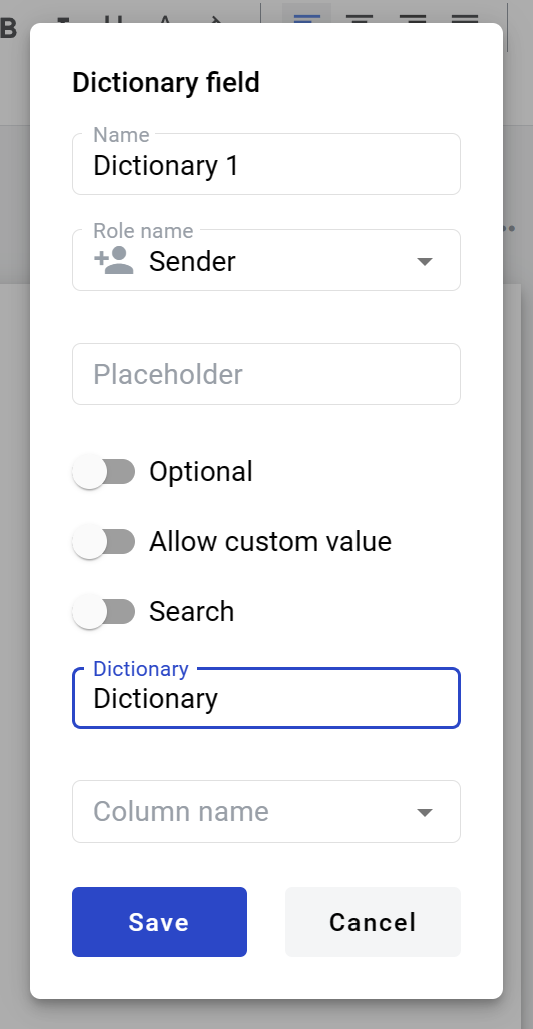
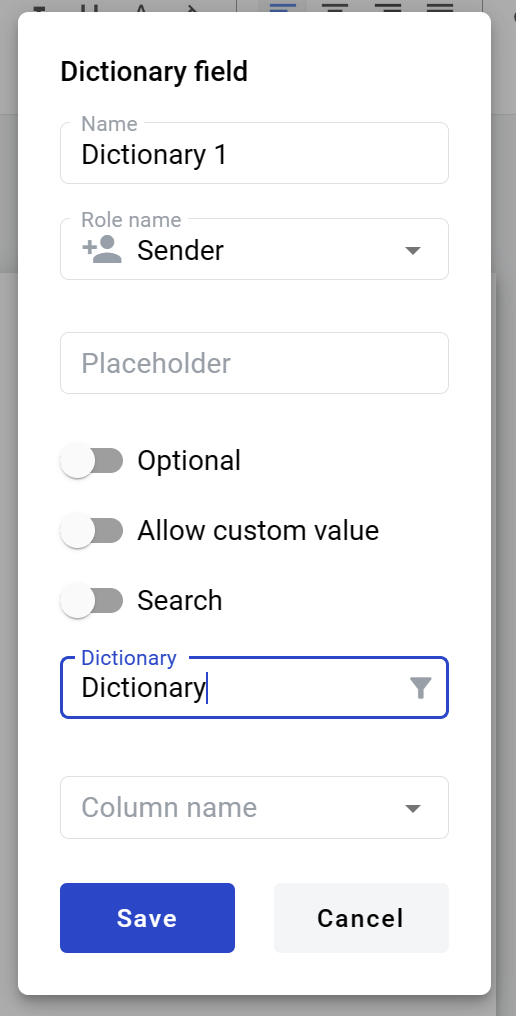
Dictionary filtering (#167)

diff --git a/docs/source/pages/howToWorkWithPlatform/mainApplication/dictionary/dictionary.rst b/docs/source/pages/howToWorkWithPlatform/mainApplication/dictionary/dictionary.rst
@@ -2,148 +2,89 @@
 Dictionary
 ==========
 
-.. toctree::
-
-Dictionary - is a list of records in a systematic form, e.g. list of employee(Name, Surname, Age, Address).
+Dictionary - is a table of records, e.g. list of employees (Name, Surname, Age, Address).
 
 Creating a dictionary
 =====================
 
-1. Navigate to https://staging.whitedoc.space/dictionary
-2. Click to create dictionary button
+.. note:: This functionality is blocked if mailbox has no permission. Dictionary editing is available only to mailbox which is an owner of this dictionary.
 
-.. image:: pic_dictionary/create_dictionary.png
+**Permissions:**
+*Dictionary manage* - allows to create new dictionaries, add columns, change columns order, edit columns, change name, description and access level of dictionaries.
+*Dictionary delete* - allow to delete dictionaries.
+*Dictionary row manage* - allow to create records and change values in records.
+*Dictionary row delete* - allow to delete records.
+
+1. Navigate to https://platform_address_here/dictionary
+2. Click on create dictionary button
+
+.. image:: pic_dictionary/newDictionary.png
    :width: 600
    :align: center
 
-Editing a dictionary
-====================
+3. New dictionary - default name of a dictionary. You can change it as needed
+4. Description - default description of a dictionary. You can change it as needed
 
-Dictionary editing is available only to mailbox that are owner of this dictionary. When user doesn't have permissions to do some operation - functionality is blocked.
+.. note:: Dictionary name max length is 128 characters. Dictionary description max length is 256 characters.
 
-**Permissions**:
+5. Allow filtered access - this attribute specifies if access to this dictionary will be filtered or full. If disabled - all records from a column will be available for choise in the envelope with dictionary field. If enabled - only values form matching rows will be returned. Values from other columns are used for row matching
+6. Access level (mailbox by default) - specifies which mailboxes will have access to the dictionary
 
-**Dictionary manage** - allow to create new dictionary, add column, change column order, edit columns, change name, description, access level of dictionary.
-**Dictionary delete** - allow to delete dictionary.
-**Dictionary row manage** - allow to create records and change value in records.
-**Dictionary row delete** - allow to delete records.
+**Mailbox** - dictionary is visible to current mailbox only. In envelopes with this dictionary field records from this dictionary will be available to current mailbox only. Roles with other mailboxes will not be able to select data from this dictionary field.
+**Account** - dictionary is visible to all mailboxes in this account. In envelopes with this dictionary field records from this dictionary will be available to mailboxes in current account. Roles with mailboxes from other accounts will not be able to select data from this dictionary field.
+**Public** - dictionary is visible to all mailboxes. In envelopes with this dictionary field records from this dictionary will be available to any mailbox. Roles with any mailbox will be able to select data from this dictionary field.
 
-Add column
-==========
+7. Click on Add row button to add new row
 
-1. Add column to dictionary
-
-.. image:: pic_dictionary/fill_dictionary_3.png
+.. image:: pic_dictionary/dictionary.png
    :width: 600
    :align: center
 
-2. Enter a column name. Columns can have the same names. Maximum length of the column name is 64 characters
+8. You can select rows with a chechmark. If any rows are selected, Delete rows button will appear which allow you to remove rows
+9. Click on Add column button to add new column
+10. Enter a column name (can be not unique). Maximum length of the column name is 64 characters
 
-.. image:: pic_dictionary/fill_dictionary_4.png
+.. image:: pic_dictionary/columnModal.png
    :width: 600
    :align: center
 
-.. image:: pic_dictionary/fill_dictionary_5.png
+11. Hover over column header to see column edition options (filter, rename and delete)
+
+.. image:: pic_dictionary/columnEdit.png
    :width: 600
    :align: center
-
-Edit column
-===========
-
-1. Click to edit icon on column name. Icon appear when user point to column name
-
-.. image:: pic_dictionary/fill_dictionary_6.png
-   :width: 600
-   :align: center
-
-2. Enter new column name
-
-.. image:: pic_dictionary/fill_dictionary_7.png
-   :width: 600
-   :align: center
-
-.. image:: pic_dictionary/fill_dictionary_8.png
-   :width: 600
-   :align: center
-
-Change column order
-===================
-
-1. Drag drag and drop icon and insert column to new position. Icon appear when user point to column name
-2. Drag column to new position
-3. Columns will be displayed in the same order on template on dictionary field
-
-Delete column
-=============
-
-1. Click to delete icon. Icon appear when user point to column name
-2. Confirm that you wanted to delete column
 
 .. note:: `Behaviour of dictionary field after deleting a dictionary column <delete_behaviour.html>`_
 
-Create empty record
-===================
+12. Columns can be rearrenged via drah & drop by this icon (same order will be used if dictionary field creation menu)
 
-Create empty record in dictionary. User can create multiple empty records by clicking to the 'Add row' button. Each click - new record.
-
-.. image:: pic_dictionary/fill_dictionary_1.png
+.. image:: pic_dictionary/columnDrag.png
    :width: 600
    :align: center
 
-.. image:: pic_dictionary/fill_dictionary_2.png
-   :width: 600
-   :align: center
+Editing a record
+================
 
-Edit record
-===========
-
-1. Click to table cell and start entering value to cell. Maximum length of the value is 256 characters
-2. Click checked and value will be applied, also you can click outside and value will be applied too
-3. Click cancel to reject changes and value will not change
-
-Delete record
-=============
-
-1. Set active checkbox or checkboxes in first table column
-2. Click to delete row button
-3. Confirm operation
+1. Click on a table cell and enter a value. Maximum length of the value is 256 characters
+2. Click checkmark to apply new value (also you can click outside of a cell)
+3. Click cancel to revert changes
 
 Filtering records
-==================
+=================
 
 Multiple filters connected by 'OR'. Filter types: Contains, Does not contain, Is equal, Is not equal, Is empty, Is not empty.
 
-1. Click to filter icon. Icon appear when user point to column name
-2. Set filter and enter value
-3. Column name with active filter will have the same color as filter
-4. Filters sort by column order
-5. To cancel filter - click to cancel icon on this filter
+1. Click on a filter icon. Icon appears when hovering over column header
+2. Select filter and enter value
+3. Click on Add button
+4. Column name with active filter will have the same color as filter
+5. Filters are sorted by column order
 
-Access level
-============
+Deleting a dictionary
+=====================
 
-Access levels are mailbox, account, public.
-
-**Mailbox** - dictionary is visible only in this mailbox scope. Envelope with dictionary field - records from this dictionary will be available only to this mailbox. Recipient from other mailbox can't select data from this dictionary.
-**Account** - dictionary is visible to all mailboxes in this account. Envelope with dictionary field - records from this dictionary will be available to all mailboxes in this account. Recipient from other account can't select data from this dictionary.
-**Public** - dictionary is visible to all mailboxes. Envelope with dictionary field - all mailboxes can use records from this dictionary.
-
-1. Click to select with access levels
-2. Chose new access level
-
-Edit dictionary name/description
-================================
-
-1. Click to edit icon
-2. Enter value and click check to apply changes or cancel to reject changes
-
-.. note:: Dictionary name - maximum length is 128 characters. Dictionary description - maximum length is 256 characters.
-
-Delete dictionary
-=================
-
-1. Click to delete icon
-2. Confirm operation
+1. Click on a delete icon on according dictionary on a dictionary list page
+2. Confirm your action
 
 .. note:: `Behaviour of dictionary field after deletion a dictionary <delete_behaviour.html>`_
 

diff --git a/docs/source/pages/howToWorkWithPlatform/mainApplication/templateList/templateManagement/documentManagementOnTemplate/structuredDocument/fields/dictionary/dictionary.rst b/docs/source/pages/howToWorkWithPlatform/mainApplication/templateList/templateManagement/documentManagementOnTemplate/structuredDocument/fields/dictionary/dictionary.rst
@@ -33,6 +33,20 @@ How to add dictionary field to template
 9. Search - this attribute specifies if this field should be eligible for mailbox page search
 10. Dictionary - input for desired dictionary selection. Start typing dictionary name and available dictionaries list will appear
 11. Column name (appears after dictionary is selected) - dropdown selector of a desired column
+12. Filtering (icon in dictionary name field) - opens filtered access options menu. Appears only if filtered access is allowed for selected dictionary
+
+.. image:: pic_dictionary/filteringModal.png
+   :width: 600
+   :align: center
+
+13. Column name - name of a column in a dictionary which will be used for filteringModal
+
+.. note:: Value from this column will be used to find a matching row in a column selected in dictionary during envelope processing flow.
+
+14. Filter by role mailbox - this attribute specifies if filtering should be applied by role (if enabled) or by field value (if disabled)
+15. Field name (changes to role name if previous attribute is enabled) - field which will be used to specify a row by value from column selected in column name (13).
+
+.. note:: If filtering by role is enabled and field becomes role name selector, it selects a role mailbox UUID of which will be used to find a matching row in dictionary. In this case, column with mailbox UUIDs should be selected in column name (13) field for matching.
 
 When all attributres are set, you can click Save button and field will be added. You can click field to see its properties and update them. Also you can delete the field in same menu.
 
